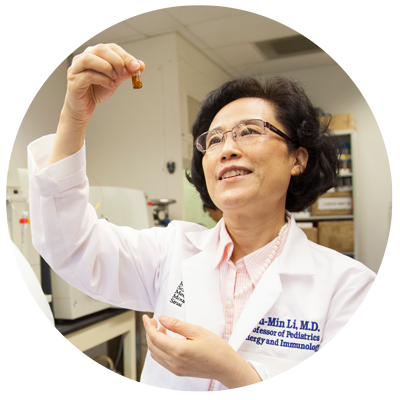
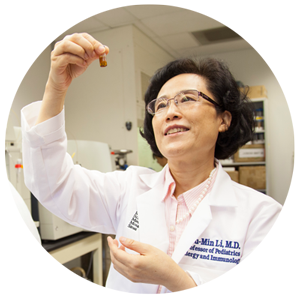
Hot add Guillermo and bug fixes on award winners page

diff --git a/_css/main.css b/_css/main.css
@@ -6,7 +6,7 @@ Developer ARE Visual (Andrew R Emery)
 Art Director/Designer: Jehan Said
 	Email:jehankjsaid@gmail.com
 Date Created: 1/29/16
-Last Edited 5/13/19
+Last Edited 6/10/19
 Written for: Future of health technology summit
 Swatch
 ===========================
@@ -487,6 +487,22 @@ footer{
 		width: 100%;
 		padding: 1em;
 }
+.li2{
+	margin-top: .25em;
+}
+
+.liCircle{
+	width: 250px;
+	height:250px;
+}
+
+ header .learnMoreButton {
+		float: none;
+	 	clear: both;
+		width: 98%;
+	}
+}
+@media screen and (max-width: 1100px) {
 #pegasus{
 	background-color:transparent;
 	height: 0;
@@ -501,18 +517,7 @@ footer{
 #pegasus section{
 	width: 100%;
 }
-#liCircle{
-	width: 250px;
-	height:250px;
 }
-
- header .learnMoreButton {
-		float: none;
-	 	clear: both;
-		width: 98%;
-	}
-}
-
 /*==================================================CHARLSE OLD STYLES=============================================*/
 /*========== CSS Document ==============*/
 body{

diff --git a/awardWinner.php b/awardWinner.php
@@ -35,11 +35,24 @@
     </article>
     <article id="li">
     	<section id="pegImg">
-            <img src="_img/liCircle.png"alt="A picture of Dr Li" id="liCircle"/>
+            <img src="_img/guillermoCircle.png" alt="A picture of Dr Guillermo" class="liCircle"/>
+        </section>
+        <section id="pegText">
+        	<h2>The 2019 FHTI Award Recipient</h2>
+            <h2>Guillermo Ulises Ruiz-Esparza, MD, PhD</h2>
+            <p>Dr. Guillermo Ulises Ruiz-Esparza, Medical Doctor and BioNanotechnologist, is a pioneer in the field of nanosystems and cardiovascular nanomedicine. He was the first to achieve intravascular and site-specific nanoparticle-based delivery to a failing heart, enabling the current development of new nanotechnologies for delivering genetic material and drugs for the treatment of heart failure. He has also developed pioneering nanotechnologies for spatiotemporal and sequential release of dual therapeutic agents within the same nanosystem as published in the cover of the "Advanced Functional Materials".
+</p>
+<p>Massachusetts Institute of Technology (MIT) – Technology Review recognized him with the prestigious TR35 award as one of the world's top innovators under the age of 35. Guillermo has numerous publications in “Science Translational Medicine”, “Advanced Materials”, “Advanced Functional Materials”, “European Journal of Heart Failure”, “Materials Science and Engineering. He directs the Molecular NanoSystems research group at the Division of Engineering in Medicine at Brigham and Women's Hospital and Harvard Medical School. </p>
+<p>He received his MD and PhD in Biotechnology and Nanotechnology from the Monterrey Institute of Technology and Higher Education-Houston Methodist Hospital Joint MD/PhD Program, later on he completed his Postdoctoral training in Smart Bio and Nanomaterials at Harvard University, Massachusetts Institute of Technology (MIT) and Brigham and Women's Hospital.</p>
+        </section>
+    </article>
+    <div style="clear: both;"></div>
+    <article id="li">
+    	<section id="pegImg">
+            <img src="_img/liCircle.png"alt="A picture of Dr Li" class="liCircle li2"/>
             <h3>Books featuring Li's Work</h3>
-            <!--<p>Food Allergies: Traditional Chinese Medicine, Western Science, and the Search for a Cure</p>-->
-            <img src="_img/foorAllagiesBoook.jpg"alt="Food Allergies: Traditional Chinese Medicine, Western Science, and the Search for a Cure" id="book"/>
-            <img src="_img/liBookTwo.jpg"alt="Traditional Chinese Medicine, Western Science, and the Fight Against Allergic Disease" id="book"/>
+            <img src="_img/foorAllagiesBoook.jpg" alt="Food Allergies: Traditional Chinese Medicine, Western Science, and the Search for a Cure" id="book"/>
+            <img src="_img/liBookTwo.jpg" alt="Traditional Chinese Medicine, Western Science, and the Fight Against Allergic Disease" id="book"/>
             
         </section>
         <section id="pegText">
